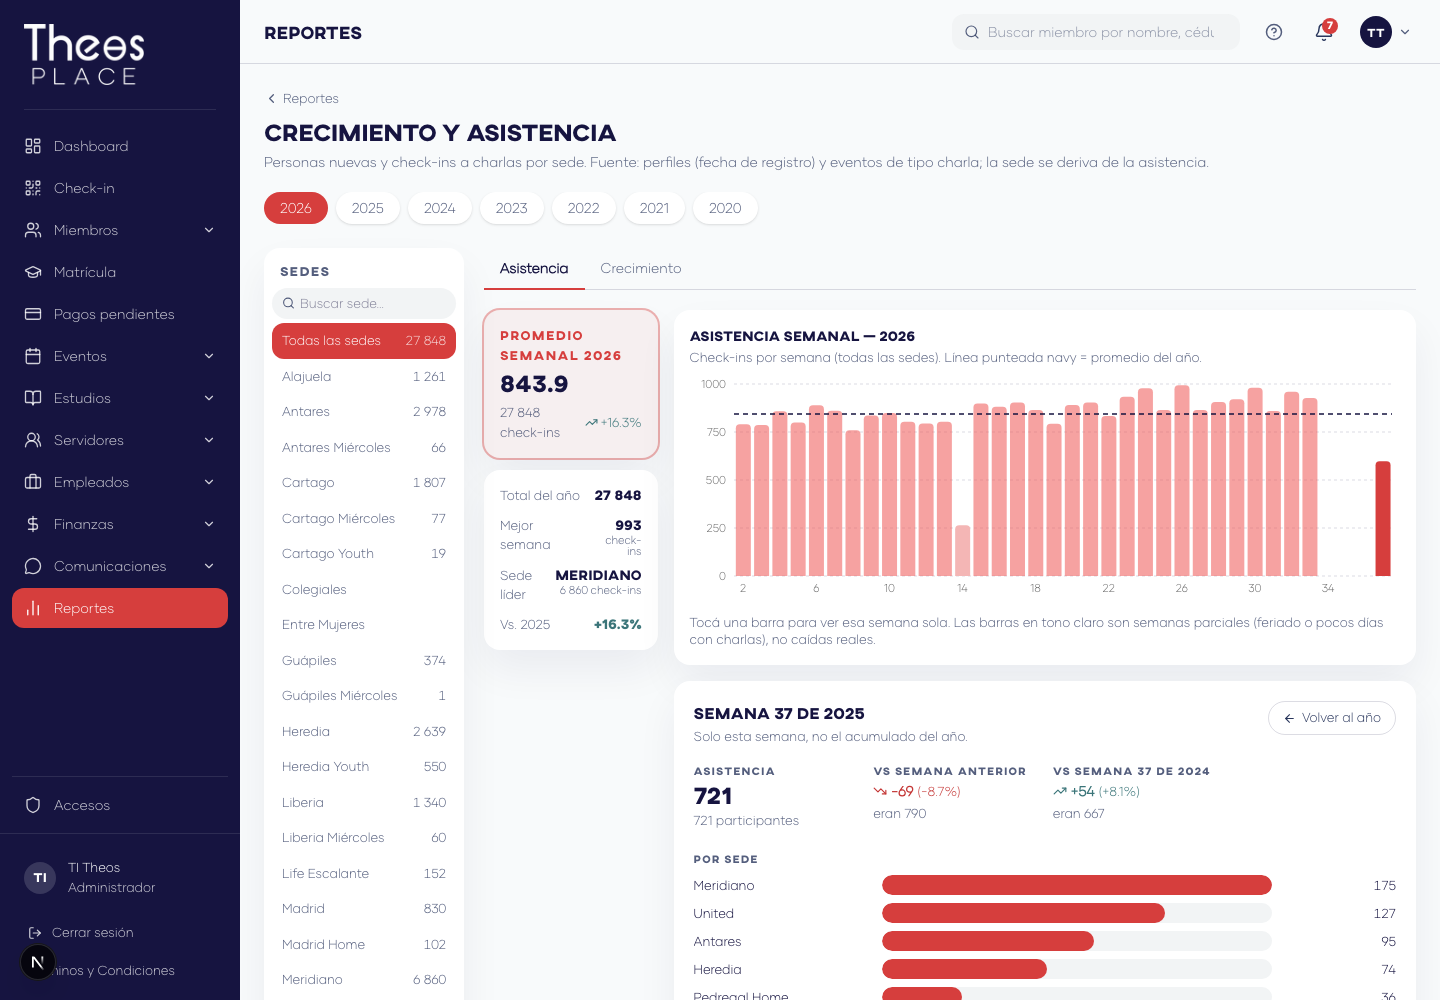
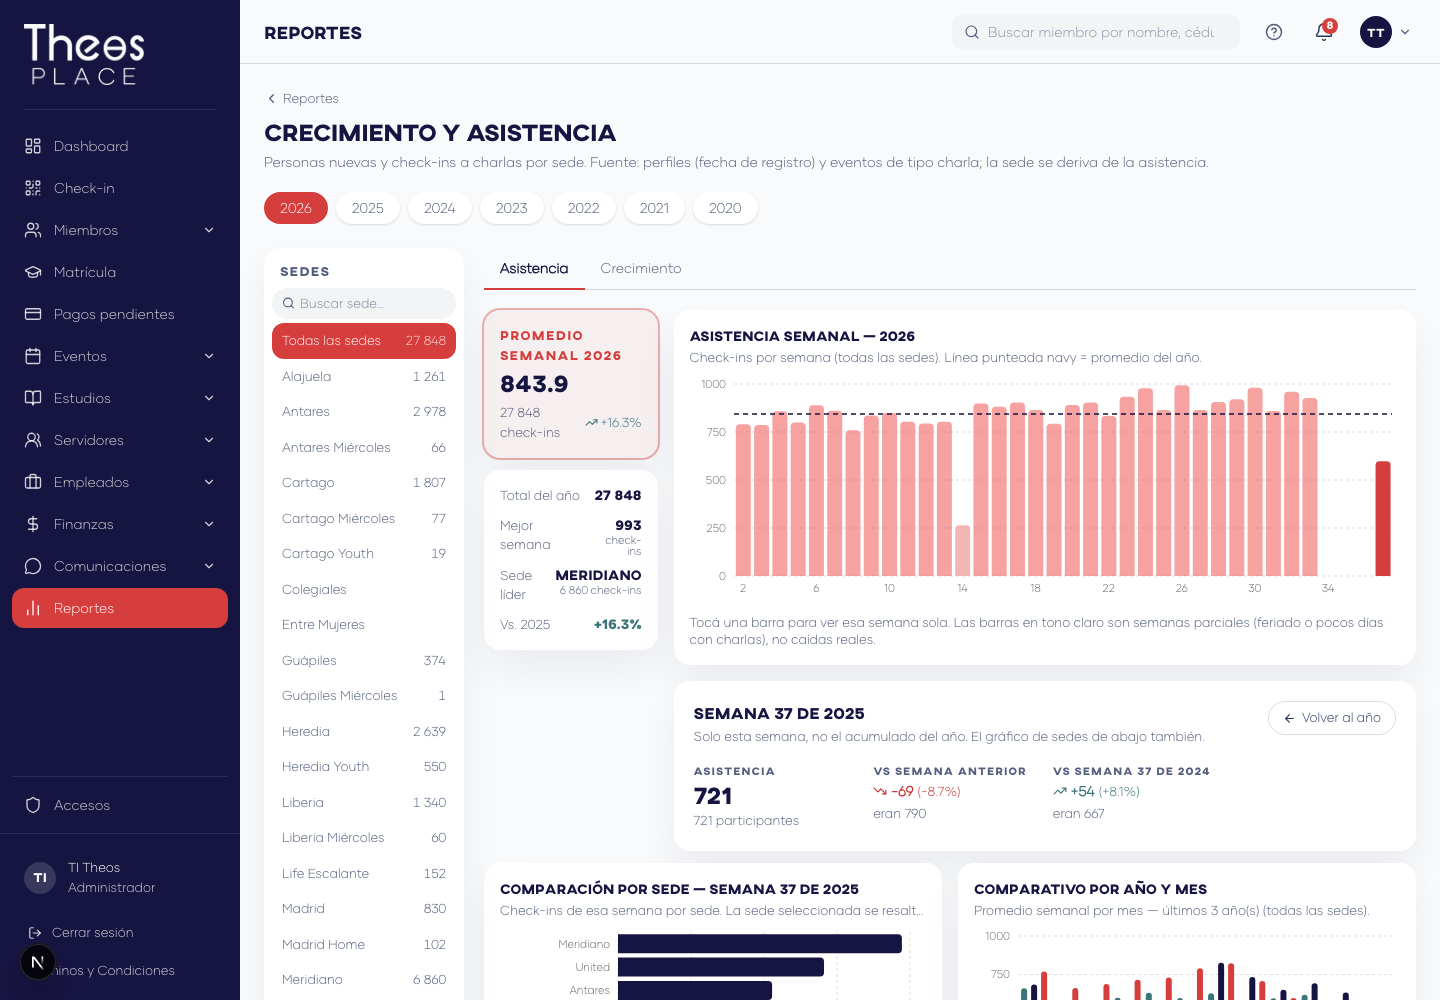
feat(reportes): el gráfico de sedes sigue la semana elegida (REP-2)
Idea del usuario, y mejor que lo que tenía: en vez de dos listas por sede —una
en el panel de la semana y otra en el gráfico con el acumulado del año—, el
gráfico "Comparación por sede" pasa a mostrar ESA semana cuando hay una
abierta, y su título lo dice. Preguntar "¿cómo nos fue esta semana?" y tener
al lado el año entero era leer dos cosas distintas creyendo que eran la misma.

El detalle se pide UNA vez en la página y lo comparten el panel y el gráfico:
dos fetch del mismo dato pueden dar números distintos si el snapshot cambia
entre uno y otro.

El resultado se guarda CON su clave de semana y el resto se deriva, en vez de
resetear estado dentro del efecto. Así no hay renders en cascada y, sobre
todo, nunca se pinta el dato de una semana bajo el título de otra.

Verificado en el navegador: el enlace compartido abre en su semana, el título
del gráfico dice "semana 37 de 2025", y "volver al año" limpia la URL.

Changed region(s): [[0.3438, 0.837, 0.9375, 1.0], [0.6875, 0.713, 0.7812, 0.744]]

diff --git a/src/app/(admin)/reportes/asistencia/page.tsx b/src/app/(admin)/reportes/asistencia/page.tsx
@@ -15,6 +15,7 @@ import { NO_SEDE, type GrowthReport } from '@/lib/reports/member-growth'
 import { SemanaDetallePanel } from '@/components/reports/SemanaDetallePanel'
 import { leerClaveDeSemana } from '@/lib/reports/semana-detalle'
 import { useSearchParams } from 'next/navigation'
+import type { DetalleDeSemana } from '@/lib/reports/semana-detalle'
 
 const NAVY = '#161440'
 const CORAL = '#D63E3D'
@@ -45,6 +46,11 @@ export default function ReporteAsistenciaPage() {
   const params = useSearchParams()
   const [semanaLocal, setSemanaLocal] = useState<string | null>(null)
   const semanaSel = leerClaveDeSemana(semanaLocal ?? params.get('semana'))
+  // El resultado se guarda CON su clave de semana y el resto se deriva. Así el
+  // efecto no tiene que resetear nada al cambiar de semana —eso dispara
+  // renders en cascada— y nunca se muestra el dato de una semana bajo el
+  // título de otra.
+  const [resultado, setResultado] = useState<{ clave: string; detalle: DetalleDeSemana | null; error: string | null } | null>(null)
   const [tab, setTab] = useState<'asistencia' | 'crecimiento'>('asistencia')
   const [loading, setLoading] = useState(true)
   const [error, setError] = useState<string | null>(null)
@@ -70,6 +76,32 @@ export default function ReporteAsistenciaPage() {
   }, [])
 
   useEffect(() => { load(null, ALL_SEDES) }, [load])
+
+  // El detalle de la semana se pide UNA vez acá y lo comparten el panel y el
+  // gráfico de sedes: dos fetch del mismo dato podrían mostrar números
+  // distintos si el snapshot cambia entre uno y otro.
+  const claveSemana = semanaSel ? `${semanaSel.year}-W${String(semanaSel.week).padStart(2, '0')}` : null
+  const claveConSede = claveSemana ? `${claveSemana}|${sede}` : null
+  useEffect(() => {
+    if (!claveSemana || !claveConSede) return
+    let vivo = true
+    const qs = new URLSearchParams({ semana: claveSemana })
+    if (sede && sede !== ALL_SEDES) qs.set('sede', sede)
+    fetch(`/api/reports/charla-attendance?${qs}`)
+      .then(async r => {
+        if (r.ok) return r.json()
+        const b = await r.json().catch(() => null)
+        throw new Error(b?.error ?? 'No se pudo cargar la semana.')
+      })
+      .then(d => { if (vivo) setResultado({ clave: claveConSede, detalle: d, error: null }) })
+      .catch(e => { if (vivo) setResultado({ clave: claveConSede, detalle: null, error: e.message }) })
+    return () => { vivo = false }
+  }, [claveSemana, claveConSede, sede])
+
+  const listo = !!claveConSede && resultado?.clave === claveConSede
+  const detalle = listo ? resultado!.detalle : null
+  const errorSemana = listo ? resultado!.error : null
+  const cargandoSemana = !!claveConSede && !listo
 
   function onYear(y: number) { setYear(y); load(y, sede); setSemana(null) }
   function onSede(s: string) { setSede(s); load(year, s) }
@@ -113,6 +145,11 @@ export default function ReporteAsistenciaPage() {
   }
 
   const sedeLabel = report.sede === ALL_SEDES ? 'todas las sedes' : report.sede
+  // Con una semana abierta, el ranking de sedes es el de ESA semana.
+  const rankingSemanal = !!semanaSel && !!detalle
+  const rankingAMostrar = rankingSemanal
+    ? detalle!.porSede.map(s => ({ sede: s.sede, total: s.total }))
+    : report.sedeRanking
   const hasPartialWeek = report.weekly.some(w => w.partial)
   // Card de promedio semanal del año seleccionado (cambia con el pill).
   const selectedCard = report.annualCards.find(c => c.year === report.year)
@@ -241,10 +278,11 @@ export default function ReporteAsistenciaPage() {
                 {semanaSel && (
                   <div className="mt-4">
                     <SemanaDetallePanel
-                      key={`${semanaSel.year}-${semanaSel.week}-${report.sede}`}
                       year={semanaSel.year}
                       week={semanaSel.week}
-                      sede={report.sede}
+                      detalle={detalle}
+                      cargando={cargandoSemana}
+                      error={errorSemana}
                       onVolver={() => setSemana(null)}
                     />
                   </div>
@@ -255,20 +293,27 @@ export default function ReporteAsistenciaPage() {
             {/* Comparativos lado a lado en desktop. */}
             <div className="grid grid-cols-1 xl:grid-cols-2 gap-4">
               {/* Comparación por sede */}
+              {/* Sigue la semana elegida: preguntar "¿cómo nos fue esta
+                  semana?" y tener al lado el acumulado del año era leer dos
+                  cosas distintas creyendo que eran la misma. */}
               <ChartCard
-                title={`Comparación por sede — ${report.year}`}
-                subtitle="Check-ins del año por sede. La sede seleccionada se resalta."
-                empty={report.sedeRanking.length === 0}
-                height={Math.max(180, report.sedeRanking.length * 26)}
+                title={rankingSemanal
+                  ? `Comparación por sede — semana ${semanaSel!.week} de ${semanaSel!.year}`
+                  : `Comparación por sede — ${report.year}`}
+                subtitle={rankingSemanal
+                  ? 'Check-ins de esa semana por sede. La sede seleccionada se resalta.'
+                  : 'Check-ins del año por sede. La sede seleccionada se resalta.'}
+                empty={rankingAMostrar.length === 0}
+                height={Math.max(180, rankingAMostrar.length * 26)}
               >
                 <ResponsiveContainer>
-                  <BarChart layout="vertical" data={report.sedeRanking} margin={{ top: 4, right: 16, left: 8, bottom: 4 }}>
+                  <BarChart layout="vertical" data={rankingAMostrar} margin={{ top: 4, right: 16, left: 8, bottom: 4 }}>
                     <CartesianGrid strokeDasharray="3 3" stroke="var(--outline-variant)" horizontal={false} />
                     <XAxis type="number" tick={{ fontSize: 11 }} tickLine={false} axisLine={false} />
                     <YAxis type="category" dataKey="sede" width={110} tick={{ fontSize: 11 }} tickLine={false} axisLine={false} />
                     <Tooltip contentStyle={tooltipStyle} formatter={(v) => [Number(v).toLocaleString('es-CR'), 'Check-ins']} cursor={{ fill: 'rgba(22,20,64,0.04)' }} />
                     <Bar dataKey="total" radius={[0, 4, 4, 0]} maxBarSize={26}>
-                      {report.sedeRanking.map(s => (
+                      {rankingAMostrar.map(s => (
                         <Cell key={s.sede} fill={report.sede !== ALL_SEDES && s.sede === report.sede ? CORAL : NAVY} />
                       ))}
                     </Bar>

diff --git a/src/components/reports/SemanaDetallePanel.tsx b/src/components/reports/SemanaDetallePanel.tsx
@@ -1,6 +1,5 @@
 'use client'
 
-import { useEffect, useState } from 'react'
 import { ArrowLeft, Loader2, TrendingDown, TrendingUp, Minus } from 'lucide-react'
 import { cn } from '@/lib/utils'
 import type { Comparacion, DetalleDeSemana } from '@/lib/reports/semana-detalle'
@@ -39,40 +38,16 @@ function Delta({ c, etiqueta }: { c: Comparacion; etiqueta: string }) {
 }
 
 export function SemanaDetallePanel({
-  year, week, sede, onVolver,
+  year, week, detalle, cargando, error, onVolver,
 }: {
   year: number
   week: number
-  /** 'all' o el nombre de la sede; se pasa tal cual al endpoint. */
-  sede: string
+  /** Lo trae la página: el mismo dato alimenta el gráfico de sedes. */
+  detalle: DetalleDeSemana | null
+  cargando: boolean
+  error: string | null
   onVolver: () => void
 }) {
-  const [detalle, setDetalle] = useState<DetalleDeSemana | null>(null)
-  const [cargando, setCargando] = useState(true)
-  const [error, setError] = useState<string | null>(null)
-
-  // Sin resetear estado acá dentro: el padre le pasa una `key` por semana, así
-  // que el componente se remonta y arranca limpio. Es la forma que no dispara
-  // renders en cascada.
-  useEffect(() => {
-    let vivo = true
-    const clave = `${year}-W${String(week).padStart(2, '0')}`
-    const qs = new URLSearchParams({ semana: clave })
-    if (sede && sede !== 'all') qs.set('sede', sede)
-    fetch(`/api/reports/charla-attendance?${qs}`)
-      .then(async r => {
-        if (r.ok) return r.json()
-        const b = await r.json().catch(() => null)
-        throw new Error(b?.error ?? 'No se pudo cargar la semana.')
-      })
-      .then(d => { if (vivo) setDetalle(d) })
-      .catch(e => { if (vivo) setError(e.message) })
-      .finally(() => { if (vivo) setCargando(false) })
-    return () => { vivo = false }
-  }, [year, week, sede])
-
-  const maximo = detalle?.porSede[0]?.total ?? 1
-
   return (
     <div className="rounded-2xl bg-surface-card shadow-[var(--shadow-md)] p-5 space-y-4">
       <div className="flex items-start justify-between gap-4 flex-wrap">
@@ -88,7 +63,7 @@ export function SemanaDetallePanel({
           <p className="text-[13px] text-navy-light/80 font-body mt-0.5">
             {detalle?.enCurso
               ? 'Todavía no termina: no se puede comparar de igual a igual con una semana completa.'
-              : 'Solo esta semana, no el acumulado del año.'}
+              : 'Solo esta semana, no el acumulado del año. El gráfico de sedes de abajo también.'}
           </p>
         </div>
         <button
@@ -100,43 +75,25 @@ export function SemanaDetallePanel({
       </div>
 
       {cargando ? (
-        <div className="flex items-center gap-2 py-10 justify-center text-navy-light/80">
+        <div className="flex items-center gap-2 py-8 justify-center text-navy-light/80">
           <Loader2 size={16} className="animate-spin" aria-hidden />
           <span className="text-sm font-body">Cargando la semana…</span>
         </div>
       ) : error ? (
-        <p className="text-[13px] text-coral-deep font-body py-6" role="alert">{error}</p>
+        <p className="text-[13px] text-coral-deep font-body py-4" role="alert">{error}</p>
       ) : detalle ? (
-        <>
-          <div className="grid grid-cols-2 sm:grid-cols-4 gap-4">
-            <div>
-              <p className="text-[11px] tracking-widest uppercase text-navy-light/80 font-display">Asistencia</p>
-              <p className="text-2xl font-extrabold text-navy font-display tabular-nums">{detalle.total}</p>
-              <p className="text-[13px] text-navy-light/80 font-body">
-                {detalle.asistentes} participantes
-                {detalle.servidores > 0 && ` · ${detalle.servidores} servidores`}
-              </p>
-            </div>
-            <Delta c={detalle.vsSemanaAnterior} etiqueta="vs semana anterior" />
-            <Delta c={detalle.vsAnoPasado} etiqueta={`vs semana ${week} de ${year - 1}`} />
+        <div className="grid grid-cols-2 sm:grid-cols-4 gap-4">
+          <div>
+            <p className="text-[11px] tracking-widest uppercase text-navy-light/80 font-display">Asistencia</p>
+            <p className="text-2xl font-extrabold text-navy font-display tabular-nums">{detalle.total}</p>
+            <p className="text-[13px] text-navy-light/80 font-body">
+              {detalle.asistentes} participantes
+              {detalle.servidores > 0 && ` · ${detalle.servidores} servidores`}
+            </p>
           </div>
-
-          <div className="space-y-2 pt-1">
-            <p className="text-[11px] tracking-widest uppercase text-navy-light/80 font-display">Por sede</p>
-            {detalle.porSede.map(s => (
-              <div key={s.sede} className="flex items-center gap-3">
-                <span className="w-44 shrink-0 truncate text-[13px] text-navy font-body">{s.sede}</span>
-                <div className="flex-1 h-5 rounded-full bg-surface-low overflow-hidden">
-                  <div className="h-full rounded-full bg-coral" style={{ width: `${Math.max(2, (s.total / maximo) * 100)}%` }} />
-                </div>
-                <span className="w-28 shrink-0 text-right text-[13px] text-navy-light/80 font-body tabular-nums">
-                  <strong className="text-navy">{s.total}</strong>
-                  {s.servidores > 0 && ` · ${s.servidores} serv.`}
-                </span>
-              </div>
-            ))}
-          </div>
-        </>
+          <Delta c={detalle.vsSemanaAnterior} etiqueta="vs semana anterior" />
+          <Delta c={detalle.vsAnoPasado} etiqueta={`vs semana ${week} de ${year - 1}`} />
+        </div>
       ) : null}
     </div>
   )

diff --git a/scripts/adriana-2026-09/probar-rep2.ts b/scripts/adriana-2026-09/probar-rep2.ts
@@ -17,9 +17,11 @@ async function main() {
   await page.waitForTimeout(7000)
   await page.getByRole('heading', { name: /Semana 37 de 2025/ }).waitFor({ timeout: 20_000 })
   const panel = page.locator('div').filter({ hasText: /^Semana 37 de 2025/ }).last()
-  await page.getByText('Por sede').first().waitFor({ timeout: 20_000 })
+  await page.getByText(/vs semana anterior/i).first().waitFor({ timeout: 20_000 })
   await page.waitForTimeout(800)
-  console.log('   ✓ abre:', (await panel.innerText()).split('\n').filter(Boolean).slice(0, 12).join(' | '))
+  console.log('   ✓ abre:', (await panel.innerText()).split('\n').filter(Boolean).slice(0, 10).join(' | '))
+  const titulos = await page.locator('h3, h2').allInnerTexts()
+  console.log('   gráfico de sedes:', titulos.find(t => /Comparación por sede/i.test(t)))
   await page.screenshot({ path: 'scripts/adriana-2026-09/out-rep2.png' })
 
   console.log('\n2) "volver al año" lo cierra y limpia la URL')
